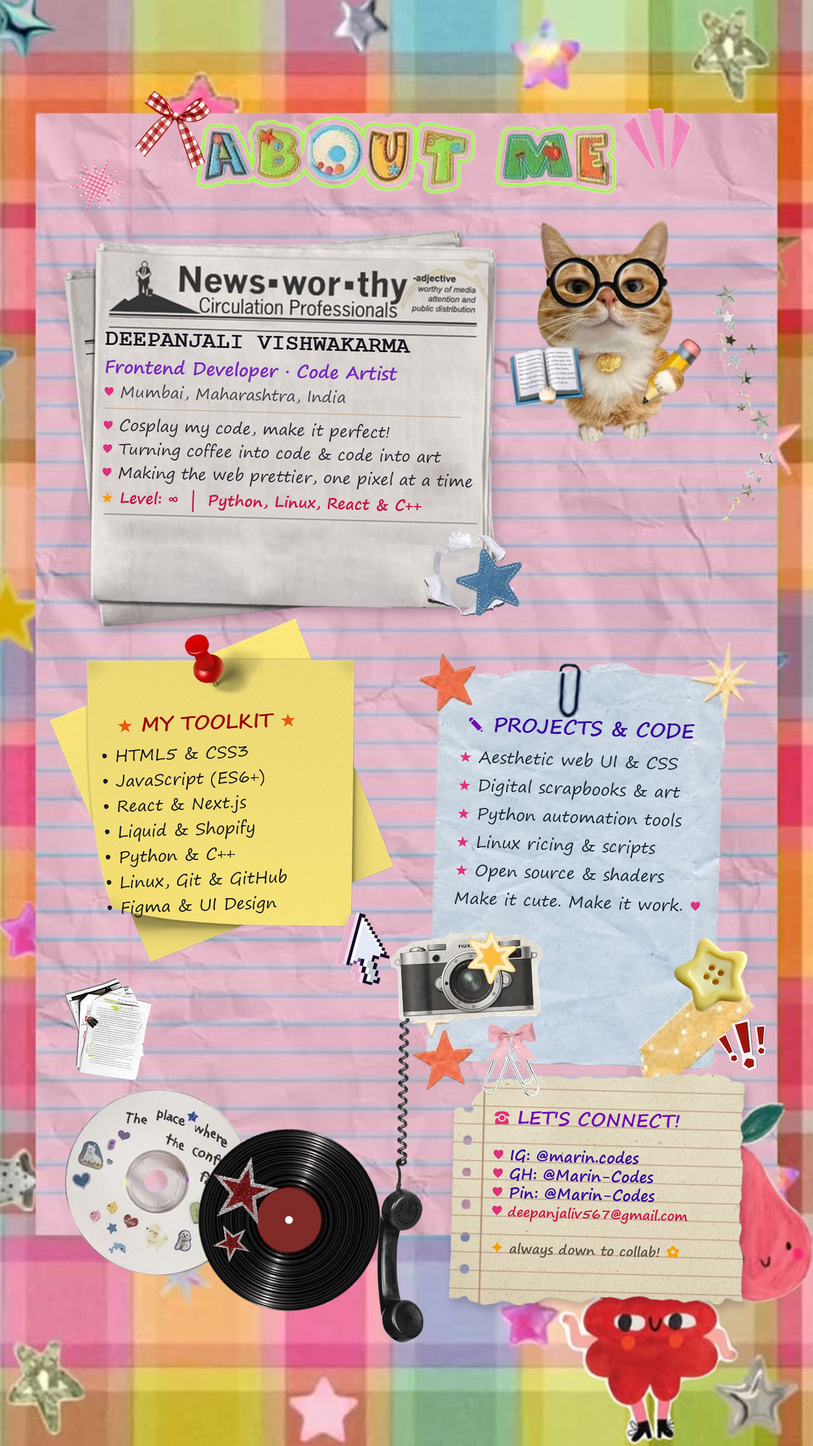
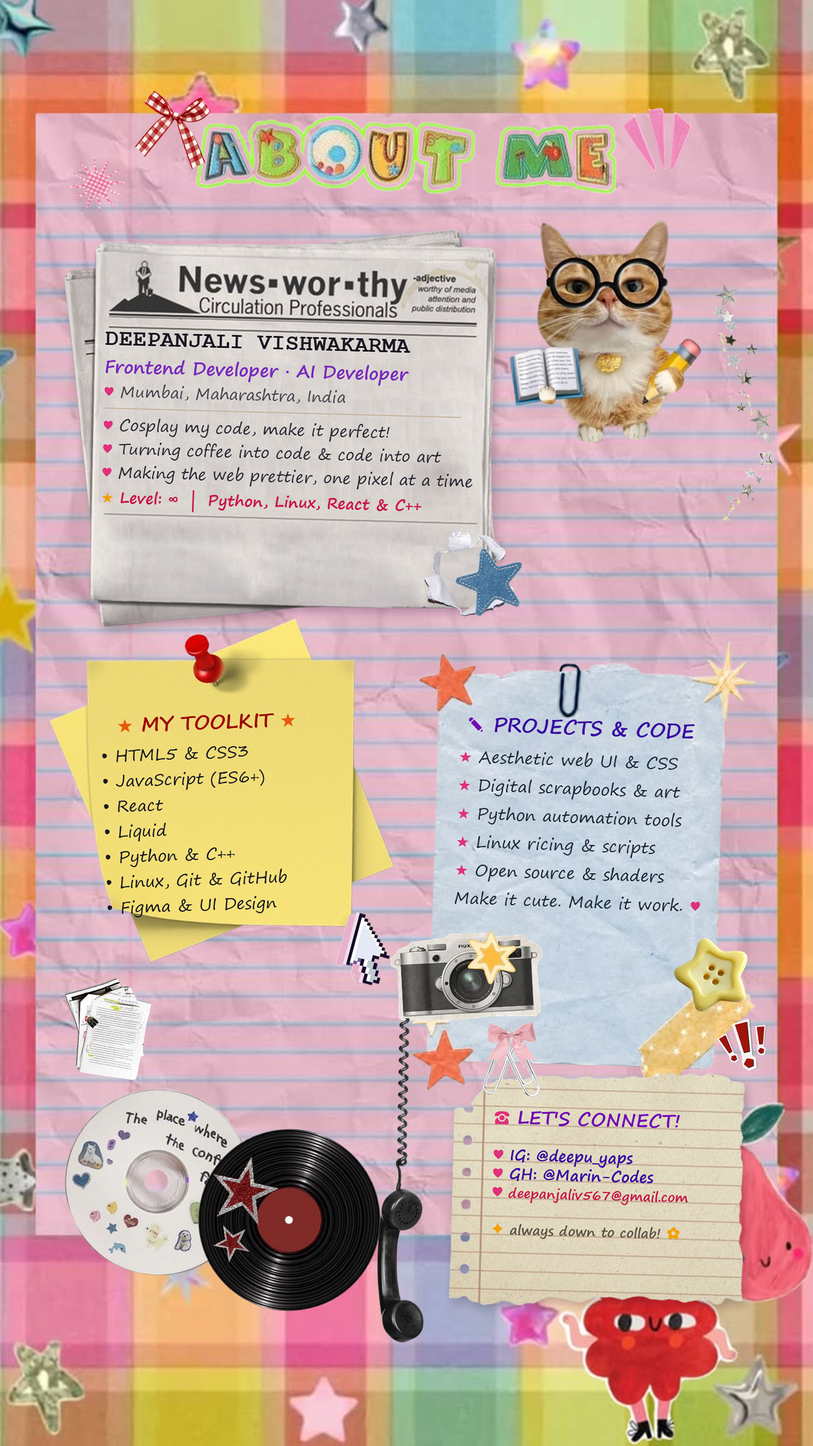
feat: add digital scrapbook build script and assets

Changed region(s): [[0.6222, 0.7812, 0.84, 0.875], [0.3733, 0.25, 0.4978, 0.2812], [0.2489, 0.5312, 0.3111, 0.5938]]

diff --git a/tools/build_scrapbook.py b/tools/build_scrapbook.py
@@ -127,7 +127,7 @@ def main():
     cy = 208
     draw_mixed_text(d_np, (tx, cy), "DEEPANJALI VISHWAKARMA", font_title, font_sym_body, "#1c1924")
     cy += 46
-    draw_mixed_text(d_np, (tx, cy), "Frontend Developer · Code Artist", font_sub, font_sym_body, "#7b2cbf")
+    draw_mixed_text(d_np, (tx, cy), "Frontend Developer · AI Developer", font_sub, font_sym_body, "#7b2cbf")
     cy += 40
     draw_mixed_text(d_np, (tx, cy), "♥ Mumbai, Maharashtra, India", font_body, font_sym_body, "#4a4752", sym_fill="#e0317a")
     cy += 18
@@ -172,8 +172,8 @@ def main():
     skills_list = [
         "• HTML5 & CSS3",
         "• JavaScript (ES6+)",
-        "• React & Next.js",
-        "• Liquid & Shopify",
+        "• React",
+        "• Liquid",
         "• Python & C++",
         "• Linux, Git & GitHub",
         "• Figma & UI Design",
@@ -246,11 +246,10 @@ def main():
     # Text sits neatly to the right of the vertical margin line (~52px) aligned on ruled lines!
     cx = 68
     draw_mixed_text(d_conn, (cx, 94), "☎ LET'S CONNECT!", font_connect_h, font_sym_conn, "#7209b7", sym_fill="#e0317a")
-    draw_mixed_text(d_conn, (cx, 155), "♥ IG: @marin.codes", font_connect, font_sym_conn, "#3a0ca3", sym_fill="#e0317a")
+    draw_mixed_text(d_conn, (cx, 155), "♥ IG: @deepu_yaps", font_connect, font_sym_conn, "#3a0ca3", sym_fill="#e0317a")
     draw_mixed_text(d_conn, (cx, 186), "♥ GH: @Marin-Codes", font_connect, font_sym_conn, "#3a0ca3", sym_fill="#e0317a")
-    draw_mixed_text(d_conn, (cx, 217), "♥ Pin: @Marin-Codes", font_connect, font_sym_conn, "#3a0ca3", sym_fill="#e0317a")
-    draw_mixed_text(d_conn, (cx, 248), "♥ deepanjaliv567@gmail.com", font_connect_sm, font_sym_conn, "#c9184a", sym_fill="#e0317a")
-    draw_mixed_text(d_conn, (cx, 309), "✦ always down to collab! ✿", font_connect_sm, font_sym_conn, "#5c5346", sym_fill="#f59f00")
+    draw_mixed_text(d_conn, (cx, 217), "♥ deepanjaliv567@gmail.com", font_connect_sm, font_sym_conn, "#c9184a", sym_fill="#e0317a")
+    draw_mixed_text(d_conn, (cx, 278), "✦ always down to collab! ✿", font_connect_sm, font_sym_conn, "#5c5346", sym_fill="#f59f00")
 
     paste_img(canvas, conn_layer, (720, 1745), rot=-1.5, shadow=True)
 

diff --git a/README.md b/README.md
@@ -10,28 +10,21 @@
 <br><br>
 
 <!-- § 2 · CLICKABLE SOCIALS & VISITOR STAMP -->
-<a href="https://www.instagram.com/marin.codes/">
-  <img src="https://img.shields.io/badge/Instagram-%40marin.codes-FF69B4?style=for-the-badge&logo=instagram&logoColor=white" alt="Instagram"/>
+<a href="https://www.instagram.com/deepu_yaps/">
+  <img src="https://img.shields.io/badge/Instagram-%40deepu__yaps-FF69B4?style=for-the-badge&logo=instagram&logoColor=white" alt="Instagram"/>
 </a>
 &nbsp;
 <a href="https://github.com/Marin-Codes">
   <img src="https://img.shields.io/badge/GitHub-%40Marin--Codes-9D4EDD?style=for-the-badge&logo=github&logoColor=white" alt="GitHub"/>
 </a>
 &nbsp;
-<a href="https://pin.it/4s6i1Epfi">
-  <img src="https://img.shields.io/badge/Pinterest-Scrapbook_Inspo-E60023?style=for-the-badge&logo=pinterest&logoColor=white" alt="Pinterest"/>
-</a>
-&nbsp;
 <a href="mailto:deepanjaliv567@gmail.com">
   <img src="https://img.shields.io/badge/Email-Say_Hello-FFB6C1?style=for-the-badge&logo=gmail&logoColor=17131F" alt="Email"/>
 </a>
 
-<br><br>
-
+<br>
 <img src="https://komarev.com/ghpvc/?username=Marin-Codes&color=FF69B4&style=flat-square&label=scrapbook+visitors" alt="Scrapbook visitors"/>
-
-<br><br>
-
+<br>
 <!-- § 3 · LIVE CONTRIBUTION GARDEN -->
 <h3>✦ ᴄᴏɴᴛʀɪʙᴜᴛɪᴏɴ ɢᴀʀᴅᴇɴ ✦</h3>
 
@@ -40,8 +33,7 @@
   <source media="(prefers-color-scheme: light)" srcset="https://raw.githubusercontent.com/Marin-Codes/Marin-Codes/output/github-snake.svg"/>
   <img alt="GitHub contribution snake animation" src="https://raw.githubusercontent.com/Marin-Codes/Marin-Codes/output/github-snake-pink.svg" width="860"/>
 </picture>
-
-<br><br>
+<br>
 
 <!-- § 4 · LIVE STATS & STREAKS (PINK PAPER THEME) -->
 <h3>✦ ꜱᴛᴀᴛꜱ &amp; ꜱᴛʀᴇᴀᴋꜱ ✦</h3>
@@ -60,10 +52,6 @@
 </td>
 </tr>
 </table>
-
-<br>
-
-<img src="https://github-readme-stats.vercel.app/api/top-langs/?username=Marin-Codes&layout=compact&bg_color=fbeaf0&border_color=f48fb1&title_color=7b2cbf&text_color=2b2833" width="360" alt="Top Languages"/>
 
 <br><br>
 
